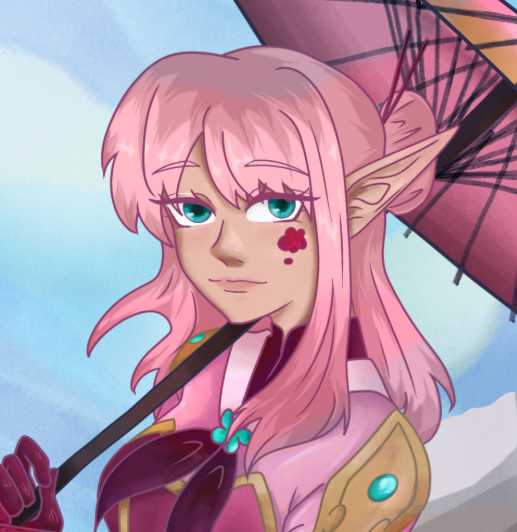
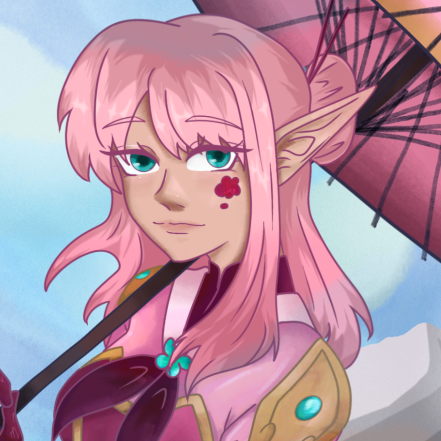
aw

diff --git a/css/main.css b/css/main.css
@@ -458,6 +458,11 @@ p:last-child {
   object-position: center;
 }
 
+.page-artwork #artwork-illustration-set .artwork-grid-thumb {
+  object-fit: cover;
+  object-position: center 35%;
+}
+
 .page-artwork .work-reveal__media > .artwork-gallery:first-child {
   aspect-ratio: 1 / 1;
   width: 100%;
